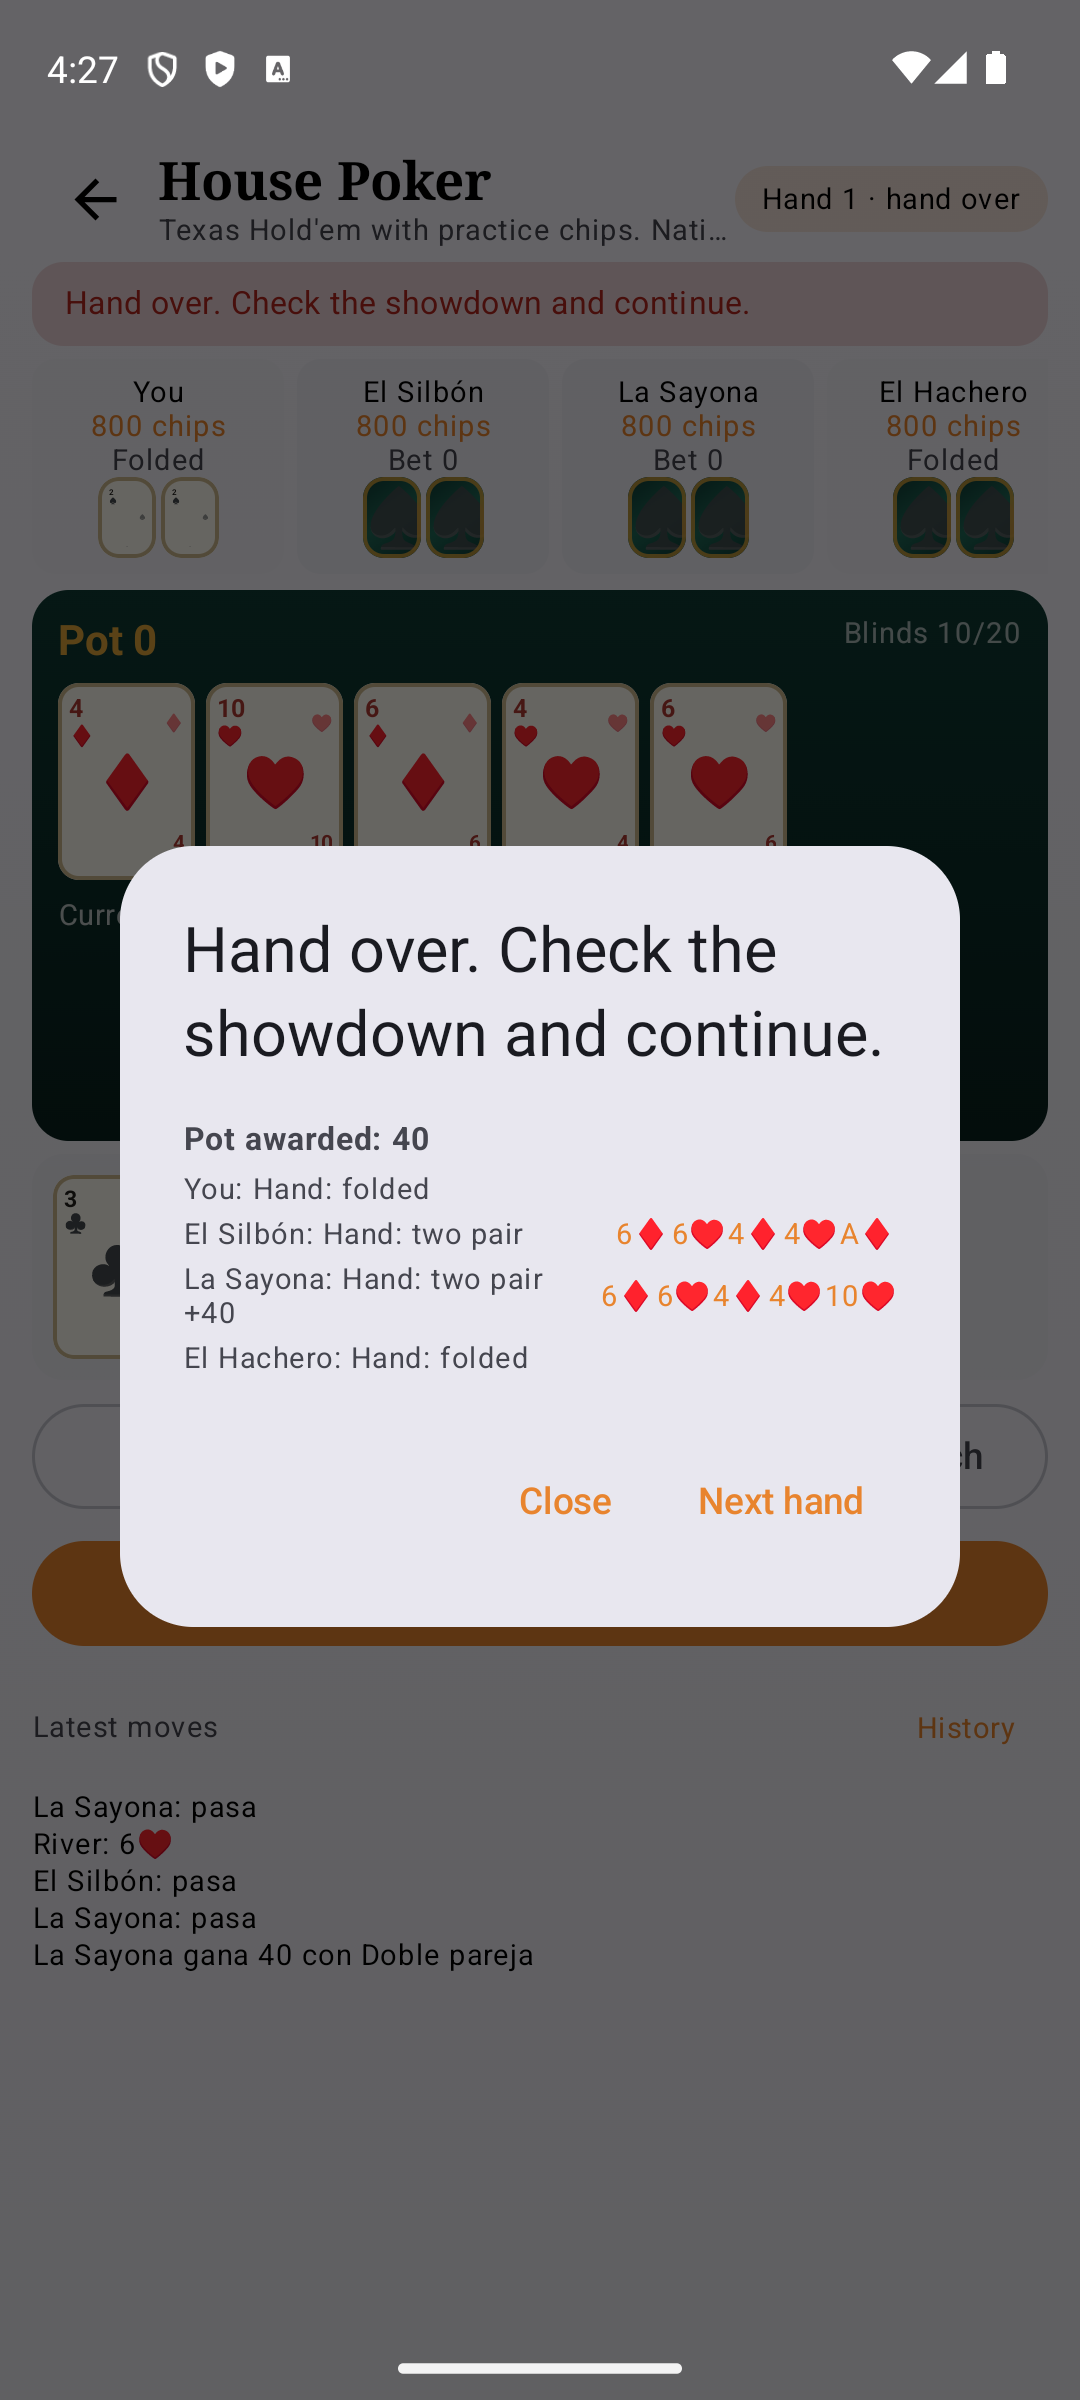
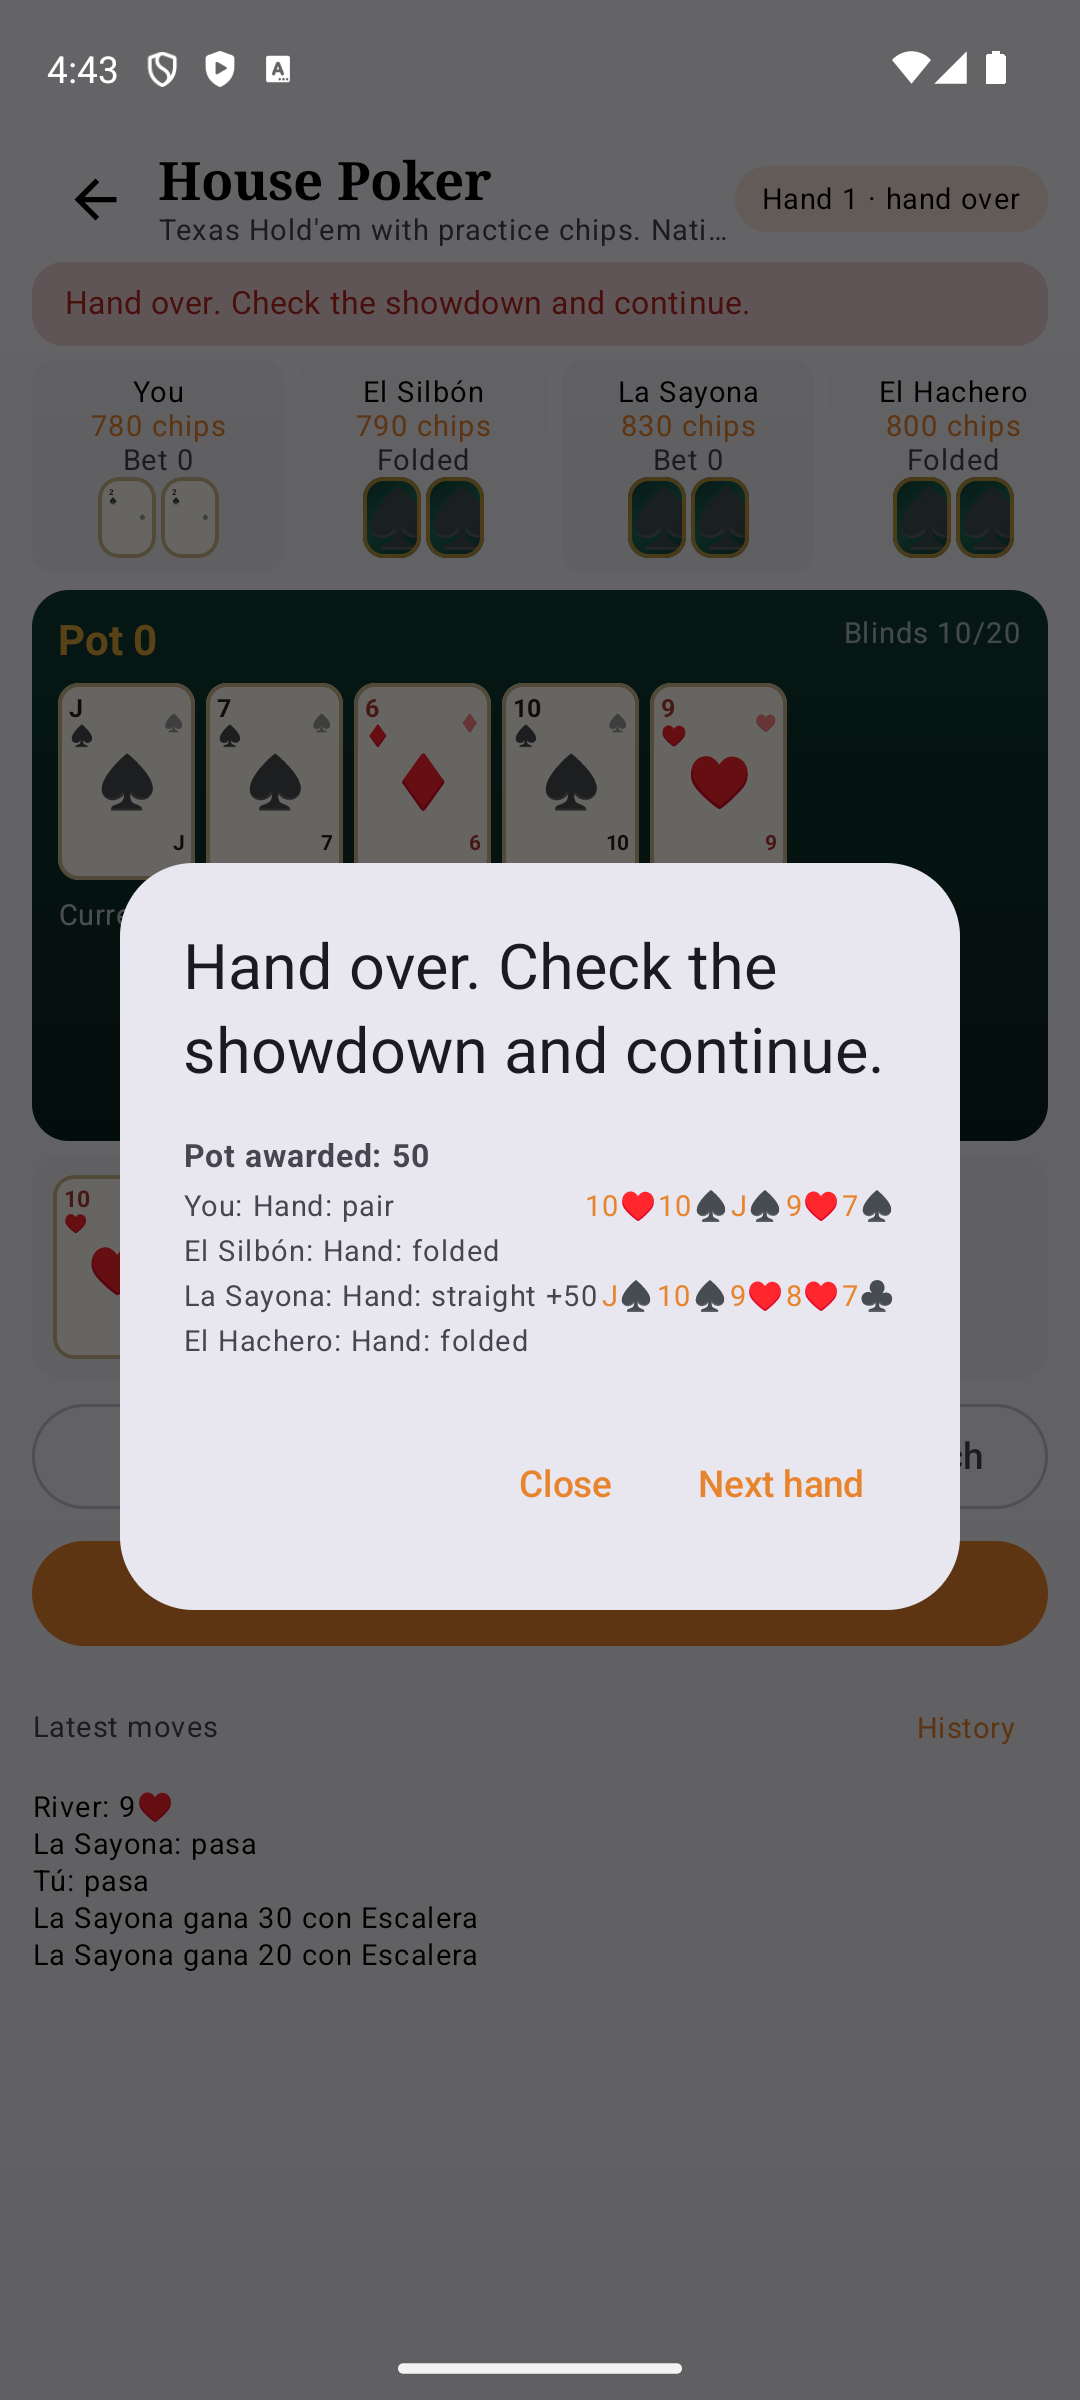
fix: correct poker uncalled-bet refund and refresh v1.3.0 artifacts

diff --git a/landing/index.html b/landing/index.html
@@ -109,13 +109,14 @@
         <li class="version current">
           <div class="version-head"><span class="badge">v1.3.0</span><span class="date">29 oct 2026 · actual</span></div>
           <h3>Póker y paridad total</h3>
-          <p>Póker Texas Hold'em nativo con ciegas, calles, all-in, botes laterales y showdown. Los quince juegos son 100 % Compose, con 84 pruebas, APK y AAB firmados.</p>
+          <p>Póker Texas Hold'em nativo con ciegas, calles, all-in, botes laterales y showdown. Los quince juegos son 100 % Compose, con 85 pruebas, APK y AAB firmados.</p>
           <div class="version-actions">
             <a class="button small primary" href="https://github.com/emanuelindustri-source/mesa-viva/releases/download/v1.3.0/mesa-viva-1.3.0-release.apk">APK firmado</a>
             <a class="button small ghost" href="https://github.com/emanuelindustri-source/mesa-viva/releases/download/v1.3.0/mesa-viva-1.3.0-release.aab">AAB</a>
+            <a class="button small ghost" href="https://github.com/emanuelindustri-source/mesa-viva/releases/download/v1.3.0/mesa-viva-1.3.0-debug.apk">APK debug</a>
             <a class="text-link" href="https://github.com/emanuelindustri-source/mesa-viva/blob/main/versions/v1.3.0.md">Evidencia</a>
           </div>
-          <p class="hash">SHA-256 firmado: <code>922A36A7FDF6C16723F3DDB4436CA953623706D405EA0D7E22E3418E2671987A</code></p>
+          <p class="hash">SHA-256 firmado: <code>4F7768B325C01CEBA57E979CDA40382B91310FA2D1DF5D34ACFFE9EC35576735</code></p>
         </li>
         <li class="version">
           <div class="version-head"><span class="badge">v1.2.0</span><span class="date">29 oct 2026</span></div>

diff --git a/android/app/src/test/java/com/mesaviva/app/games/NativeGamesTest.kt b/android/app/src/test/java/com/mesaviva/app/games/NativeGamesTest.kt
@@ -716,4 +716,27 @@ class NativeGamesTest {
         val state = game.newMatch().copy(turn = 1)
         assertNotNull(game.botAction(state))
     }
+
+    @Test
+    fun `poker showdown awards the best kicker`() {
+        val game = PokerGame(playerCount = 2, seed = 35)
+        val base = game.newMatch()
+        fun c(rank: Int, suit: PokerSuit) = PokerCard("$suit-$rank", suit, rank)
+        val community = listOf(
+            c(4, PokerSuit.Diamonds), c(9, PokerSuit.Hearts), c(6, PokerSuit.Diamonds),
+            c(4, PokerSuit.Hearts), c(6, PokerSuit.Hearts),
+        )
+        val state = base.copy(
+            players = listOf(
+                base.players[0].copy(hole = listOf(c(14, PokerSuit.Diamonds), c(2, PokerSuit.Clubs)), folded = false, totalBet = 20),
+                base.players[1].copy(hole = listOf(c(10, PokerSuit.Clubs), c(3, PokerSuit.Clubs)), folded = false, totalBet = 20),
+            ),
+            community = community,
+            street = PokerStreet.River,
+            currentBet = 0,
+        )
+        val result = game.resolveShowdownForTest(state)
+        assertEquals(0, result.state.handWinner?.seat)
+        assertTrue((result.state.players[0].chips) > 800)
+    }
 }

diff --git a/android/app/src/main/java/com/mesaviva/app/games/PokerGame.kt b/android/app/src/main/java/com/mesaviva/app/games/PokerGame.kt
@@ -516,7 +516,7 @@ class PokerGame(
     private fun refundUncalled(state: PokerState): PokerState {
         val sorted = state.players.map { it.totalBet }.sortedDescending()
         val top = sorted.getOrNull(0) ?: 0
-        val second = sorted.firstOrNull { it < top } ?: 0
+        val second = sorted.getOrNull(1) ?: 0
         if (top <= second) return state
         val topPlayer = state.players.firstOrNull { it.totalBet == top } ?: return state
         val refund = top - second
@@ -745,6 +745,9 @@ class PokerGame(
     fun evaluateHand(cards: List<PokerCard>): PokerHandEval = evaluate(cards)
 
     fun compareHands(a: PokerHandEval, b: PokerHandEval): Int = compare(a, b)
+
+    /** Expuesto para pruebas de reparto de botes y showdown. */
+    fun resolveShowdownForTest(state: PokerState): PokerResult = showdown(state)
 
     fun handName(key: String): String = when (key) {
         "poker.hand.high" -> "Carta alta"

diff --git a/src/games/poker.ts b/src/games/poker.ts
@@ -601,7 +601,7 @@ function sidePots(state: PokerState): Array<{ amount: number; eligible: string[]
 function refundUncalled(state: PokerState): PokerState {
   const contributions = [...state.players.map((player) => player.totalBet)].sort((a, b) => b - a);
   const top = contributions[0] ?? 0;
-  const second = contributions.find((value) => value < top) ?? 0;
+  const second = contributions[1] ?? 0;
   if (top <= second) return state;
   const topPlayer = state.players.find((player) => player.totalBet === top);
   if (!topPlayer) return state;

diff --git a/versions/v1.3.0.md b/versions/v1.3.0.md
@@ -50,8 +50,8 @@ v1.3.0 cierra la paridad de juegos: **Póker Texas Hold'em pasa a Jetpack Compos
 | Suite | Resultado |
 |---|---|
 | Motores web (`npm test`) | **30/30** |
-| Motores Kotlin (`gradlew testDebugUnitTest`) | **54/54** |
-| Total | **84 pruebas** |
+| Motores Kotlin (`gradlew testDebugUnitTest`) | **55/55** |
+| Total | **85 pruebas** |
 | TypeScript (`npm run typecheck`) | sin errores |
 | Build web (`npm run build`) | correcto |
 | APK release firmado | correcto |
@@ -59,14 +59,14 @@ v1.3.0 cierra la paridad de juegos: **Póker Texas Hold'em pasa a Jetpack Compos
 | Instalación en emulador Android 14 | correcta |
 | Póker verificado en emulador | ciegas, preflop, call, flop, check, fold, showdown y siguiente mano |
 
-Las 6 pruebas Kotlin nuevas cubren baraja de 52, reparto y ciegas, categorías de mano, fold con bote, call/check hasta el flop y bot de Póker.
+Las 7 pruebas Kotlin nuevas cubren baraja de 52, reparto y ciegas, categorías de mano, fold con bote, call/check hasta el flop, bot de Póker y showdown con kicker y devolución correcta de apuestas igualadas.
 
 ## Artefactos y checksums
 
-- **APK release firmado:** `mesa-viva-1.3.0-release.apk` · 10.330.909 bytes.
[1 lines of base64/hex data omitted]
-- **AAB release firmado:** `mesa-viva-1.3.0-release.aab` · 9.973.057 bytes.
[1 lines of base64/hex data omitted]
+- **APK release firmado:** `mesa-viva-1.3.0-release.apk` · 10.330.905 bytes.
[1 lines of base64/hex data omitted]
+- **AAB release firmado:** `mesa-viva-1.3.0-release.aab` · 9.973.008 bytes.
[1 lines of base64/hex data omitted]
 
 Los artefactos locales viven en `artifacts/`. La release de GitHub publica el APK y el AAB con los mismos nombres. El APK de depuración de CI se añade al publicar el tag.
 
@@ -75,7 +75,7 @@ Los artefactos locales viven en `artifacts/`. La release de GitHub publica el AP
 En [`docs/evidence/v1.3.0/`](../docs/evidence/v1.3.0/):
 
 - `home.png` — inicio con “15 juegos 100 % Compose”.
-- `poker.png`, `poker-setup.png`, `poker-flop.png`, `poker-showdown.png`.
+- `poker.png`, `poker-setup.png`, `poker-river.png`, `poker-showdown.png`.
 
 Capturas tomadas en el emulador `Pixel_7_API_34` (Android 14, API 34) con la APK de release firmada.
 
@@ -103,7 +103,7 @@ Capturas tomadas en el emulador `Pixel_7_API_34` (Android 14, API 34) con la APK
 ## Criterios de aceptación cumplidos
 
 - [x] Póker nativo con motor Kotlin y pruebas.
-- [x] 84 pruebas verdes sin regresiones en los 30 motores web.
+- [x] 85 pruebas verdes sin regresiones en los 30 motores web.
 - [x] APK y AAB de release firmados.
 - [x] Póker verificado en emulador Android 14.
 - [x] Los quince juegos son 100 % Compose.

diff --git a/versions/NEXT.md b/versions/NEXT.md
@@ -18,8 +18,8 @@
 ### Calidad
 
 - 30/30 pruebas de motores web.
-- 54/54 pruebas Kotlin (los quince juegos, incluidos Póker, Caída y Furia).
-- **84 pruebas en total.**
+- 55/55 pruebas Kotlin (los quince juegos, incluidos Póker, Caída y Furia).
+- **85 pruebas en total.**
 - TypeScript sin errores.
 - Web compilada con Vite 6.4.5 y sincronizada dentro del APK.
 - APK debug, APK release firmado y AAB release firmado.
@@ -28,8 +28,8 @@
 
 ### Checksums v1.3.0
 
[4 lines of base64/hex data omitted]
 - Artefactos locales en `artifacts/`: `mesa-viva-1.3.0-release.apk`, `mesa-viva-1.3.0-release.aab`. La release de GitHub añade `mesa-viva-1.3.0-debug.apk`.
 
 ## Compose

diff --git a/docs/evidence/v1.3.0/README.md b/docs/evidence/v1.3.0/README.md
@@ -7,7 +7,7 @@ Capturas del emulador `Pixel_7_API_34` (Android 14, API 34) con la APK de releas
 | `home.png` | Inicio con los quince juegos 100 % Compose |
 | `poker.png` | Póker nativo: ciegas, bote, cartas propias y acciones |
 | `poker-setup.png` | Preparación de Póker: jugadores, fichas y dificultad |
-| `poker-flop.png` | Póker: flop, evaluación de mano y check |
+| `poker-river.png` | Póker: turn/river, evaluación de mano y check |
 | `poker-showdown.png` | Póker: showdown, botes y siguiente mano |
 
 El teléfono físico `23117RA68G` sigue bloqueado por MIUI para instalación USB (“Instalación bloqueada de Mesa Viva vía USB”). La verificación funcional se hizo en el emulador.

diff --git a/README.md b/README.md
@@ -137,7 +137,7 @@ npm run test:relay            # requiere npm run rooms en otra terminal
 python tools/check_i18n.py   # claves usadas vs. catálogo español
 ```
 
-- 30 pruebas de motores web + 54 pruebas de motores nativos Kotlin (los quince juegos, incluidos Póker, Caída y Furia). **84 en total**.
+- 30 pruebas de motores web + 55 pruebas de motores nativos Kotlin (los quince juegos, incluidos Póker, Caída y Furia). **85 en total**.
 - TypeScript estricto, sin `any` en la capa de motores.
 - Motor determinista con semilla reproducible.
 - Host autoritativo en red; los clientes solo reciben su vista redactada.

diff --git a/ROADMAP.md b/ROADMAP.md
@@ -14,7 +14,7 @@
 - [x] Póker Texas Hold'em nativo en Compose, con ciegas, calles, all-in, botes laterales y showdown.
 - [x] Evaluador de la mejor mano de 5 entre 7 y bots con tres dificultades.
 - [x] Quince juegos 100 % Compose; el WebView queda como respaldo.
-- [x] 54 pruebas Kotlin + 30 web = **84**.
+- [x] 55 pruebas Kotlin + 30 web = **85**.
 - [x] APK y AAB de release firmados; Póker verificado en emulador Android 14.
 - [x] Evidencia visual en `docs/evidence/v1.3.0/`.
 - [ ] Salas nativas, PDF/replays y accesibilidad.

diff --git a/CHANGELOG.md b/CHANGELOG.md
@@ -11,7 +11,7 @@ La mesa completa.
 - **Showdown nativo**: filas por jugador, mano, cartas ganadoras, bote repartido y siguiente mano.
 - Bots con fuerza de mano, pot odds, agresividad y tres dificultades.
 - `PokerCardFace` con baraja francesa, reverso y estados de carta.
-- 6 pruebas Kotlin nuevas; **84 pruebas en total** (30 web + 54 nativas).
+- 7 pruebas Kotlin nuevas; **85 pruebas en total** (30 web + 55 nativas).
 - Evidencia visual en `docs/evidence/v1.3.0/`.
 
 ### Cambiado
